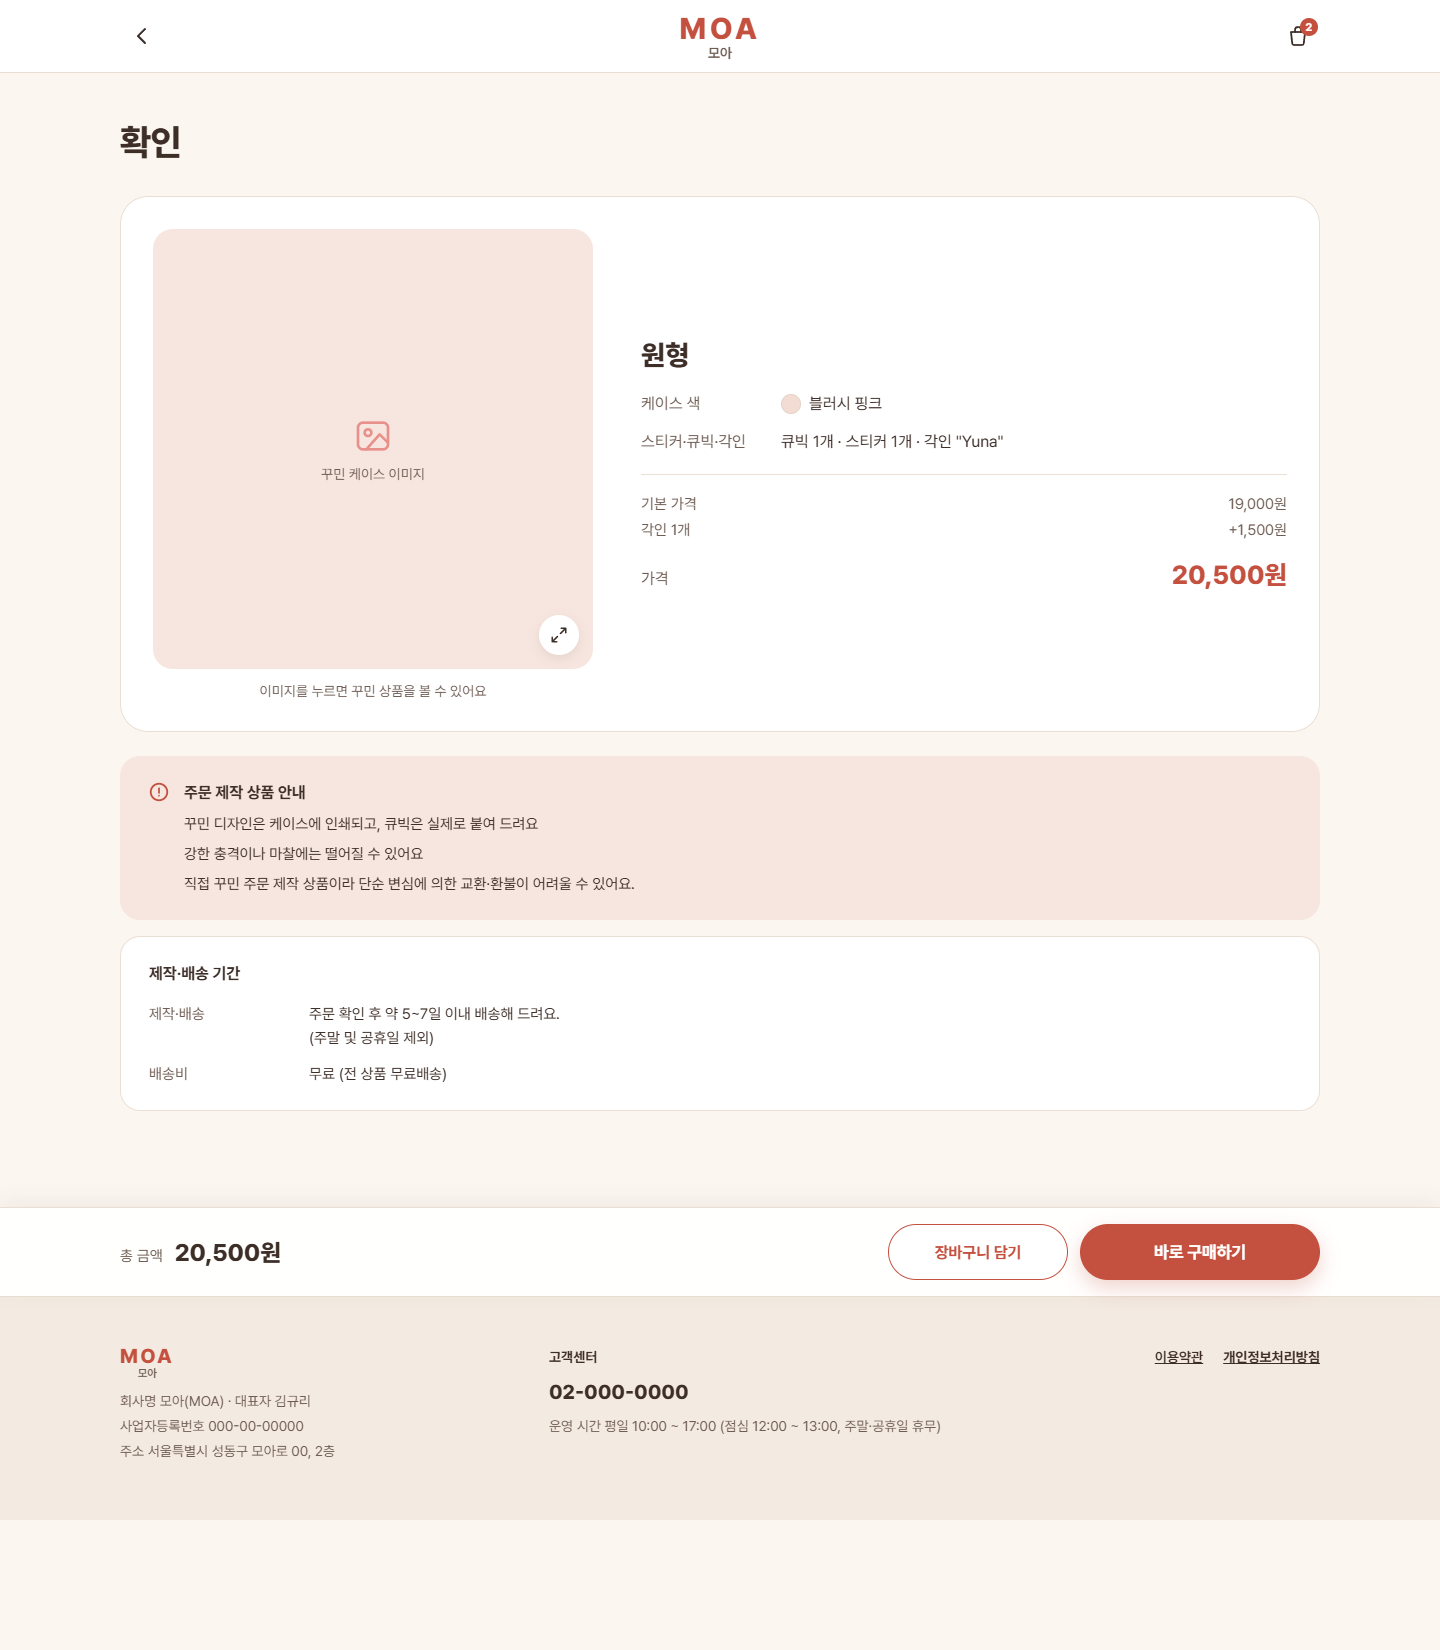
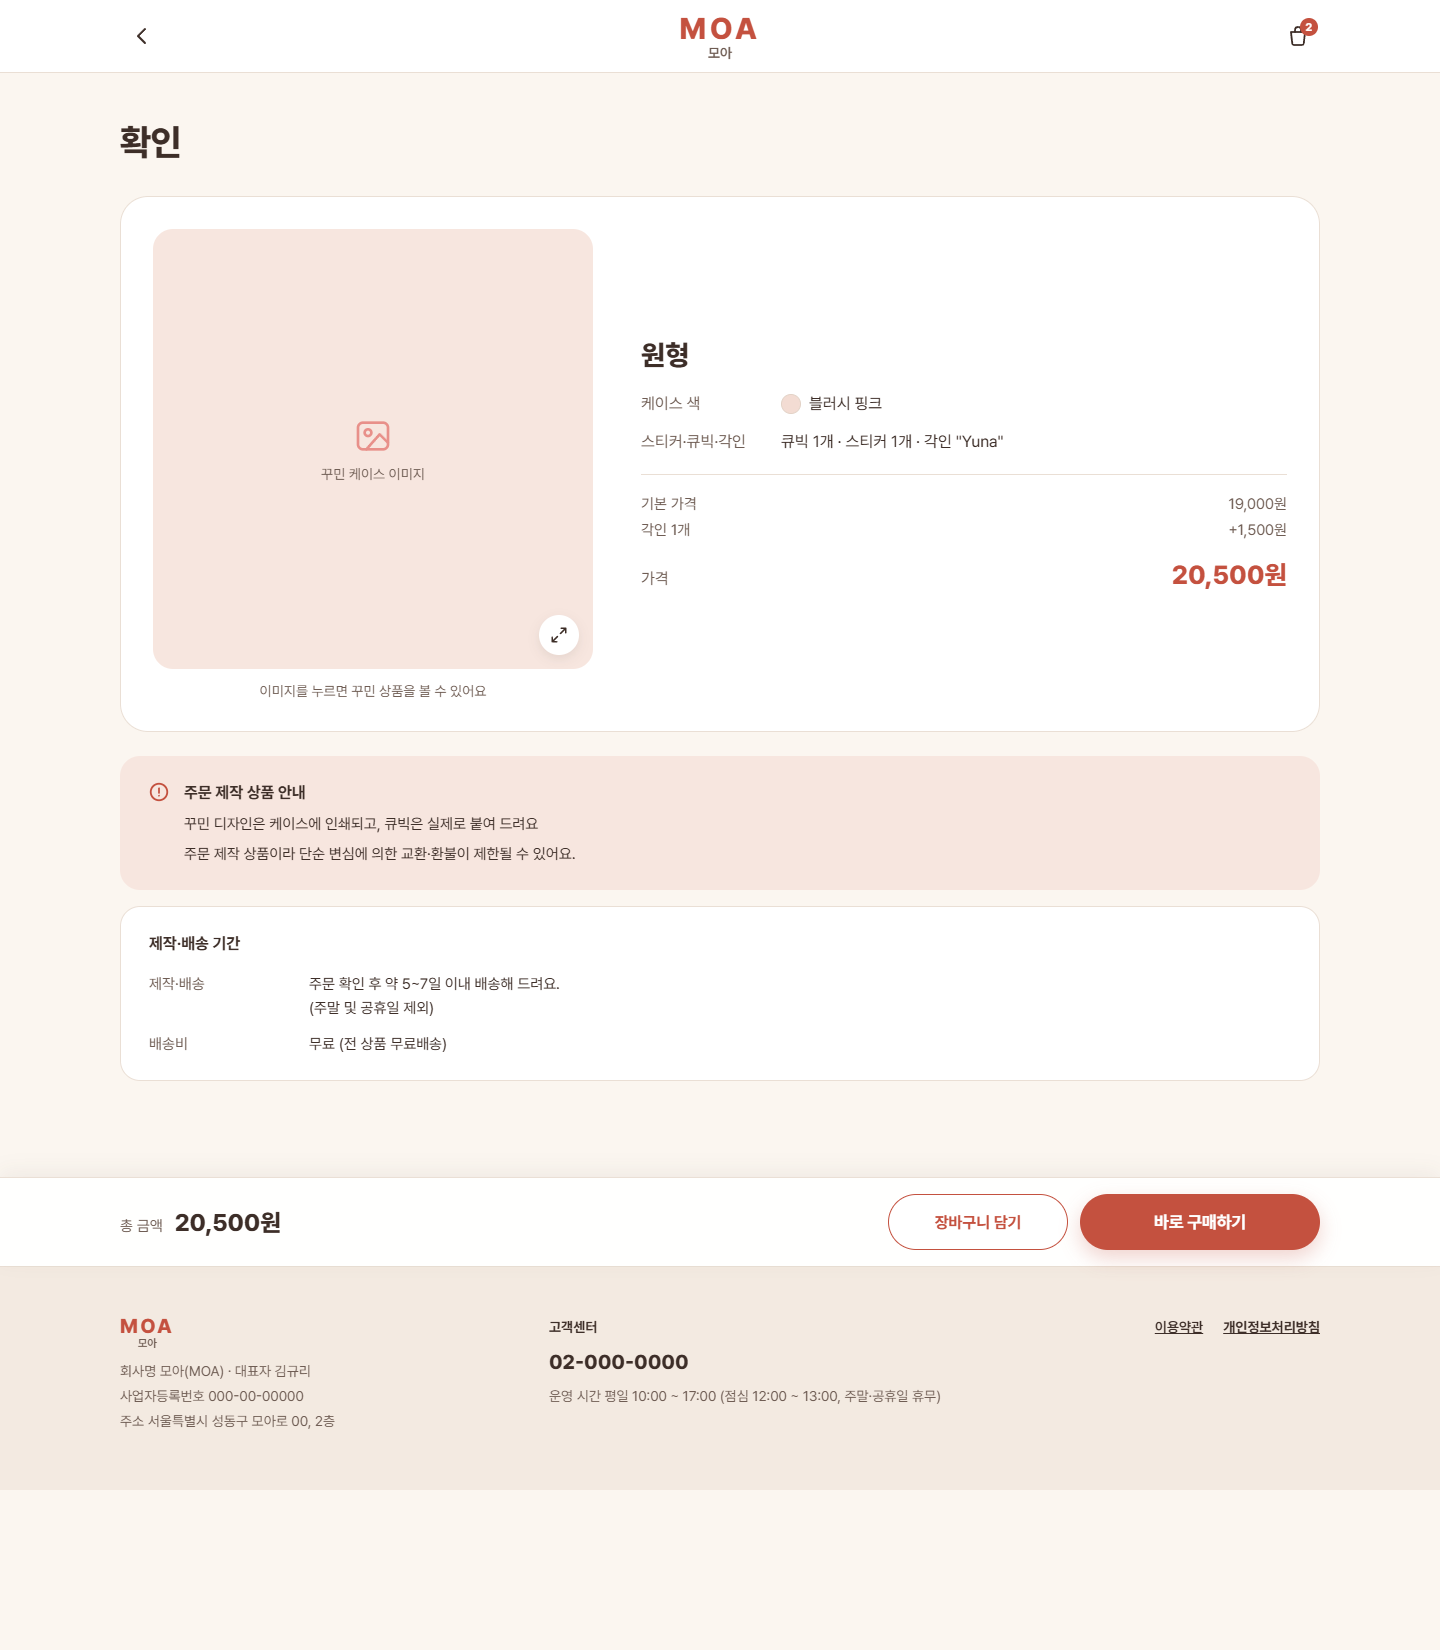
Restore refund meaning and drop the duplicate cubic line on P04
- Refund notice keeps 해요체 but says 제한될 수 있어요 again
- Remove the extra cubic line from the P04 notice box (already on P02, P03 and terms)
- Refresh P02 and P04 screenshots and sync docs, design copies and wireframe notes

Changed region(s): [[0.0, 0.7109, 1.0, 0.8964], [0.0938, 0.4945, 0.9062, 0.6182], [0.2188, 0.5873, 0.375, 0.68]]

diff --git a/docs/html/p02-detail.html b/docs/html/p02-detail.html
@@ -122,7 +122,7 @@ a{color:#3D2E28}a:hover{color:#C4513F}
       <div style="background: #FFFFFF; border: 1px solid #EADFD5; border-radius: 20px; padding: 28px 32px; display: grid; grid-template-columns: 160px 1fr; row-gap: 18px; font-size: 15px; line-height: 1.6">
         <span style="color: #6F5D54; font-weight: 600">제작 및 배송 안내</span><span>주문 확인 후 약 <span style="white-space: nowrap">5~7일 이내</span> 배송해 드려요.<br>(주말 및 공휴일 제외)</span>
         <span style="color: #6F5D54; font-weight: 600">배송비</span><span>무료 (전 상품 무료배송)</span>
-        <span style="color: #6F5D54; font-weight: 600">교환 및 환불 안내</span><span>직접 꾸민 주문 제작 상품이라 단순 변심에 의한 교환·환불이 어려울 수 있어요.</span>
+        <span style="color: #6F5D54; font-weight: 600">교환 및 환불 안내</span><span>주문 제작 상품이라 단순 변심에 의한 교환·환불이 제한될 수 있어요.</span>
         <span style="color: #6F5D54; font-weight: 600">유의사항</span><span>큐빅은 하나하나 손으로 붙여서 강한 충격이나 마찰에는 떨어질 수 있어요.</span>
       </div>
     </div>

diff --git a/src/data/catalog.js b/src/data/catalog.js
@@ -298,13 +298,11 @@ export const SHIPPING_PERIOD = {
 export const SHIPPING_INFO = {
   period: `${SHIPPING_PERIOD.before} ${SHIPPING_PERIOD.range} ${SHIPPING_PERIOD.after} ${SHIPPING_PERIOD.note}`,
   fee: '무료 (전 상품 무료배송)',
-  refund: '직접 꾸민 주문 제작 상품이라 단순 변심에 의한 교환·환불이 어려울 수 있어요.',
+  refund: '주문 제작 상품이라 단순 변심에 의한 교환·환불이 제한될 수 있어요.',
   // P02 유의사항 · P03 큐빅 패널 한 줄
   caution: '큐빅은 하나하나 손으로 붙여서 강한 충격이나 마찰에는 떨어질 수 있어요.',
 };
 
-// 큐빅 안내: 실제 아크릴 큐빅을 손으로 붙이므로 떨어질 수 있음을 알림 (P04 주문 제작 상품 안내는 두 번째 문장 — P02 유의사항·P03 큐빅 패널 한 줄은 SHIPPING_INFO.caution)
-export const CUBIC_NOTICE = ['큐빅은 하나하나 손으로 붙여 드려요.', '강한 충격이나 마찰에는 떨어질 수 있어요.'];
 
 // 예상 배송일: 주문일에서 주말을 빼고 5~7일 뒤 (공휴일은 계산하지 않음) — 예: "11.24(화) ~ 11.26(목)"
 const WEEKDAY = ['일', '월', '화', '수', '목', '금', '토'];

diff --git a/src/pages/ConfirmPage.jsx b/src/pages/ConfirmPage.jsx
@@ -7,7 +7,7 @@ import { useUI } from '../components/Dialogs';
 import CaseView from '../components/CaseView';
 import { BottomBar, Footer, NavBar, ShippingPeriod } from '../components/Layout';
 import { IconExpand, IconInfo } from '../components/Icons';
-import { CUBIC_NOTICE, SHIPPING_INFO, addOnLines, designPrice, fmtPrice, getCaseType } from '../data/catalog';
+import { SHIPPING_INFO, addOnLines, designPrice, fmtPrice, getCaseType } from '../data/catalog';
 import { colorOf, decorationSummary, typeName } from '../utils/summary';
 import { isMobile } from '../utils/device';
 import './OrderFlow.css';
@@ -122,8 +122,6 @@ export default function ConfirmPage() {
           <div className="notice-body">
             <strong>주문 제작 상품 안내</strong>
             <span>꾸민 디자인은 케이스에 인쇄되고, 큐빅은 실제로 붙여 드려요</span>
-            {/* 위 문장처럼 끝 마침표 없이 */}
-            <span>{CUBIC_NOTICE[1].replace(/\.$/, '')}</span>
             <span>{SHIPPING_INFO.refund}</span>
           </div>
         </div>

diff --git a/docs/html/p04-confirm.html b/docs/html/p04-confirm.html
@@ -87,8 +87,7 @@ a{color:#3D2E28}a:hover{color:#C4513F}
       <div style="display: flex; flex-direction: column; gap: 6px; font-size: 15px; line-height: 1.6">
         <strong style="font-size: 16px">주문 제작 상품 안내</strong>
         <span>꾸민 디자인은 케이스에 인쇄되고, 큐빅은 실제로 붙여 드려요</span>
-        <span>강한 충격이나 마찰에는 떨어질 수 있어요</span>
-        <span>직접 꾸민 주문 제작 상품이라 단순 변심에 의한 교환·환불이 어려울 수 있어요.</span>
+        <span>주문 제작 상품이라 단순 변심에 의한 교환·환불이 제한될 수 있어요.</span>
       </div>
     </div>
   </section>

diff --git a/PROJECT_CONTEXT.md b/PROJECT_CONTEXT.md
@@ -59,7 +59,7 @@
 - 레이아웃: 화면 프레임 너비 1440, 안내창 너비 480 (출처: 04-site-wireframe.md) · 화면 구성은 깔끔하게, 복잡하고 정신없는 화면은 피함 (출처: 01-site-purpose.md) · 여백: 4px 단위, 페이지 좌우 32px, 내용 최대 너비 1200px, 섹션 사이 80~96px (출처: 06-site-design.md)
 - 반복 요소: 핵심 행동은 눈에 띄게 구분(케이스 종류 카드, 꾸미기 시작, 완료, 바로 구매하기, 결제하기, 주문하기) (출처: 04-site-wireframe.md) · 모서리 모양: 둥글게. 버튼은 완전히 둥근 알약 모양, 카드·이미지는 16px 이상 둥근 모서리 (출처: 사용자 답변)
 - 분위기와 말투: 감성적이고 아기자기하며 예쁜 느낌. 아기자기함은 스티커·일러스트·작은 디테일로 표현 (출처: 01-site-purpose.md) · 예시 문장: "나만의 쿠션 케이스, 모아에서 완성해요" (출처: 02-site-structure.md), "꾸민 디자인은 케이스에 인쇄되고, 큐빅은 실제로 붙여 드려요" (출처: 사용자 답변)
-- 상품 제작 방식: 스티커와 케이스 색은 인쇄, 큐빅은 실제 아크릴 큐빅을 붙임, 글자는 각인 (출처: 사용자 답변) · 큐빅은 강한 충격이나 마찰에 떨어질 수 있다고 P02 배송·교환 안내의 "유의사항" 줄, P03 큐빅 패널 안 한 줄, P04 주문 제작 상품 안내, M03 이용약관에 알림 (2026-11-18 추가, 문구는 `catalog.js`의 `SHIPPING_INFO.caution`·`CUBIC_NOTICE`, 약관은 `policies.js`) (출처: 사용자 답변 — 추천안 승인)
+- 상품 제작 방식: 스티커와 케이스 색은 인쇄, 큐빅은 실제 아크릴 큐빅을 붙임, 글자는 각인 (출처: 사용자 답변) · 큐빅은 강한 충격이나 마찰에 떨어질 수 있다고 P02 배송·교환 안내의 "유의사항" 줄, P03 큐빅 패널 안 한 줄, M03 이용약관에 알림 (2026-11-18 추가, 문구는 `catalog.js`의 `SHIPPING_INFO.caution`, 약관은 `policies.js` · P04 확인 화면에는 겹쳐서 넣지 않음) (출처: 사용자 답변 — 추천안 승인)
 - 꾸밈 이미지 방향: 미니멀 엘레건스. 한 케이스에 요소 2~3개, 통통하고 반짝이는 파스텔 아크릴 큐빅, 넉넉한 여백. 원색과 많은 요소는 피함 (출처: 사용자 답변)
 - 스티커 스타일: 가는 브라운·로즈 외곽선에 연한 파스텔 채색, 평평하게 인쇄된 다꾸풍 일러스트 (곰돌이는 점 눈과 작은 입만). 리본 스티커와 그림 스티커를 "스티커" 하나로 합침 (출처: 사용자 답변)
 - 참고한 레퍼런스와 적용 위치: 사용자가 보여준 베이직 톤 쿠션 케이스 사이트 이미지 → 영문 필기체 포인트만 P01 소개 배너에 적용 (출처: 사용자 답변)

diff --git a/docs/02-site-structure.md b/docs/02-site-structure.md
@@ -117,7 +117,7 @@
 - 상품 카드: 쇼핑몰 장바구니처럼 왼쪽에 꾸민 케이스 이미지, 오른쪽에 케이스 종류 이름, 선택 요약(케이스 색, 붙인 스티커·큐빅·각인), 가격을 한 카드에 보여준다.
 - 꾸민 케이스 이미지를 누르면 미리보기 창이 떠서 크게 볼 수 있다. 이미지 아래에 "이미지를 누르면 꾸민 상품을 볼 수 있어요" 같은 안내 문구를 둔다.
 - 가격은 케이스 종류별 가격(원형 19,000 · 둥근 정사각형 20,000 · 하트 21,000 · 꽃 22,000원)에 추가 요금(스티커·큐빅 6개째부터 1개당 +500원, 각인 1개당 +1,500원(최대 10글자))을 더한 값이다. 추가 요금이 있으면 기본 가격과 추가 요금을 나눠 보여준다.
-- 주문 제작 상품 안내: 꾸민 디자인은 케이스에 인쇄·각인되고 큐빅은 실제로 붙인다는 것과, 직접 꾸민 주문 제작 상품이라 단순 변심에 의한 교환·환불이 어렵다는 안내를 보여준다. 큐빅은 강한 충격이나 마찰에 떨어질 수 있다는 한 줄도 함께 둔다.
+- 주문 제작 상품 안내: 꾸민 디자인은 케이스에 인쇄·각인되고 큐빅은 실제로 붙인다는 것과, 직접 꾸민 주문 제작 상품이라 단순 변심에 의한 교환·환불이 어렵다는 안내를 보여준다.
 - 제작·배송 기간 안내: 제작·배송("주문 확인 후 약 5~7일 이내 배송해 드려요." 다음 줄에 "(주말 및 공휴일 제외)")과 배송비(무료, 전 상품 무료배송)를 보여준다.
 - 하단 고정 바에 "장바구니 담기"와 "바로 구매하기"를 나란히 둔다. "장바구니 담기"는 장바구니에 넣고 장바구니로 이동하고, "바로 구매하기"(핵심 행동)는 주문 정보로 바로 이동한다.
 - 꾸미기로 돌아갈 때는 네비게이션 바의 ← 뒤로를 쓴다. (꾸민 상태 유지)

diff --git a/docs/04-site-wireframe.md b/docs/04-site-wireframe.md
@@ -104,7 +104,7 @@
 - P02-S06 사이즈
   - 정보 상자 (회색 선): 크기, 호환 규격 안내(내 쿠션에 맞는 종류를 확인하는 방법) (쿠션 팩트 평균값으로 확정, `PROJECT_CONTEXT.md` 6번)
 - P02-S07 배송·교환 안내
-  - 정보 상자 (회색 선): 제작·배송 기간, 배송비, 주문 제작 상품 교환·환불 안내, 유의사항(큐빅) (문구는 `src/data/catalog.js`의 `SHIPPING_INFO`, `CUBIC_NOTICE`)
+  - 정보 상자 (회색 선): 제작·배송 기간, 배송비, 주문 제작 상품 교환·환불 안내, 유의사항(큐빅) (문구는 `src/data/catalog.js`의 `SHIPPING_INFO`)
 - P02-S08 하단 고정 바
   - P02-B04 꾸미기 시작 (버튼, 핵심 행동): P03 꾸미기 · 화면 아래에 고정
 - P02-S09 푸터 (공통 요소)
@@ -156,7 +156,7 @@
   - 오른쪽: 선택 요약 (회색 선): 케이스 색, 붙인 스티커·큐빅·각인
   - 오른쪽: 가격 (회색 선): 케이스 종류별 가격 + 추가 요금 (스티커·큐빅 5개까지 추가 요금 없음, 6개째부터 1개당 +500원 · 각인 1개당 +1,500원(최대 10글자))
 - P04-S04 주문 제작 상품 안내
-  - 안내 상자 (회색 선): 꾸민 디자인은 인쇄·각인되고 큐빅은 실제로 붙인다는 안내 + 큐빅은 강한 충격이나 마찰에 떨어질 수 있다는 안내 + 단순 변심에 의한 교환·환불이 어렵다는 안내 (문구는 `SHIPPING_INFO`)
+  - 안내 상자 (회색 선): 꾸민 디자인은 인쇄·각인되고 큐빅은 실제로 붙인다는 안내 + 단순 변심에 의한 교환·환불이 어렵다는 안내 (문구는 `SHIPPING_INFO`)
 - P04-S05 제작·배송 기간 안내
   - 안내 상자 (회색 선): 제작·배송 기간 (주문 확인 후 약 5~7일 이내 배송, 주말 및 공휴일 제외)과 배송비
 - P04-S06 하단 고정 바

diff --git a/docs/03-site-map.md b/docs/03-site-map.md
@@ -61,7 +61,7 @@
 
 - 네비게이션 바: ← 뒤로(꾸미기, 상태 유지) + 로고(가운데) · 바 아래에 페이지 제목 "확인"
 - 상품 카드: 왼쪽 꾸민 케이스 이미지(누르면 미리보기 창, 아래에 안내 문구) + 오른쪽 케이스 종류 이름, 선택 요약(케이스 색, 붙인 스티커·큐빅·각인), 가격(케이스 종류별 가격 + 추가 요금, 추가 요금이 있으면 나눠 보여줌)
-- 주문 제작 상품 안내: 인쇄·각인·큐빅 안내, 큐빅이 충격·마찰에 떨어질 수 있다는 안내, 단순 변심 교환·환불이 어렵다는 안내
+- 주문 제작 상품 안내: 인쇄·각인·큐빅 안내, 단순 변심 교환·환불이 어렵다는 안내
 - 제작·배송 기간 안내: 제작·배송(주문 확인 후 약 5~7일 이내 배송), 배송비
 - 하단 고정 바: 총 금액 + "장바구니 담기"(장바구니로 이동) + "바로 구매하기"(주문 정보로 이동)
 
